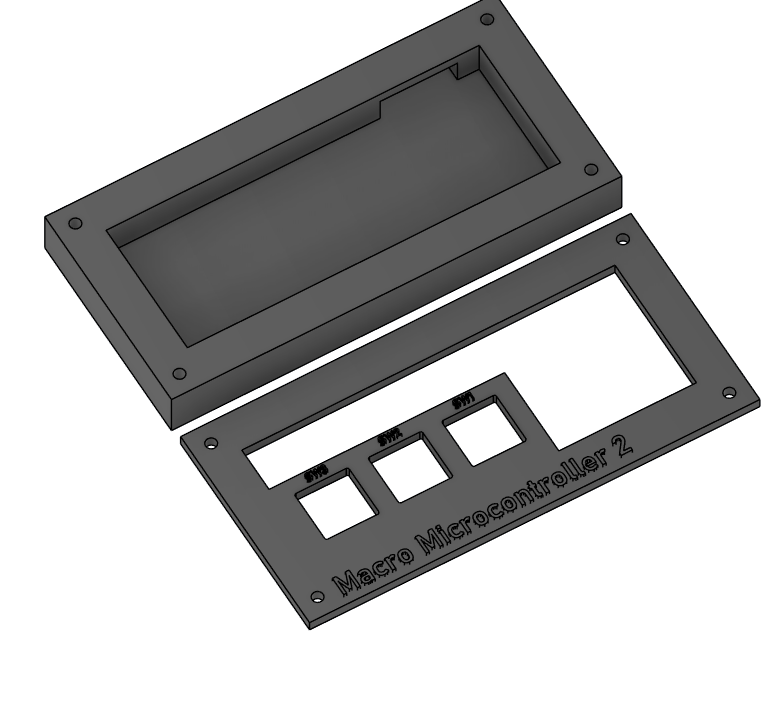
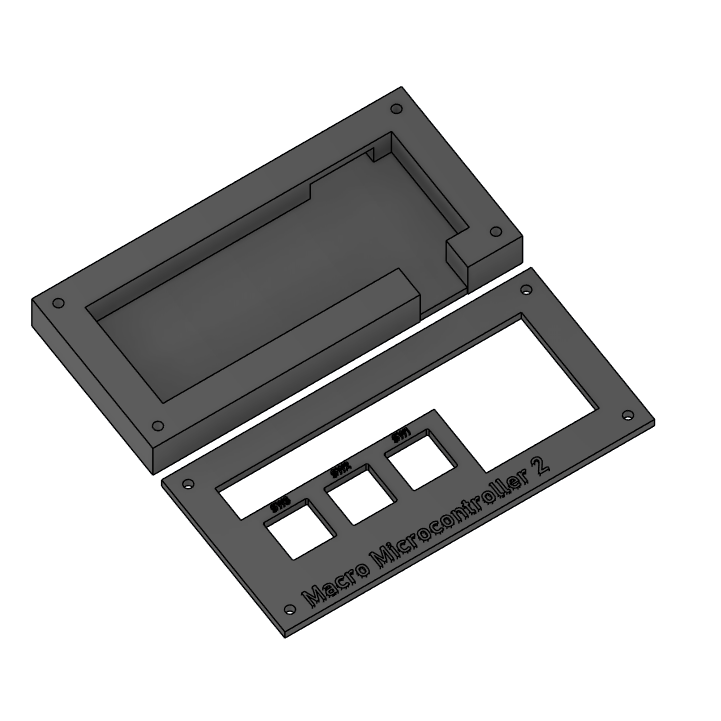
Update enclosure for barrel jack

Changed region(s): [[0.0305, 0.0, 0.9764, 0.8849], [0.2136, 0.2441, 0.4577, 0.3967], [0.4577, 0.1831, 0.5798, 0.2441]]

diff --git a/README.md b/README.md
@@ -28,7 +28,7 @@ A BASIC interpreter written in C for Macro Microcontroller, providing a simple c
 ## Schematics
 <img src="Assets/schematics.svg">
 
-View PCB file on https://kicanvas.org/?repo=https%3A%2F%2Fgithub.com%2FNicholas1023%2Fmacro-microcontroller-2%2Fblob%2Fmain%2FPCB%20Files%2Fmacro-microcontroller-2.kicad_pcb!
+View PCB file at https://kicanvas.org/?repo=https%3A%2F%2Fgithub.com%2FNicholas1023%2Fmacro-microcontroller-2%2Fblob%2Fmain%2FPCB%20Files%2Fmacro-microcontroller-2.kicad_pcb!
 
 ## Repository Structure
 ```
@@ -46,7 +46,7 @@ main
  └── schematics.pdf ← Schematics
  ```
 
-## Bill of Materials (Excluding DNP)
+## Bill of Materials (Excluding Do Not Populate)
 |Component|Ref Designator|Qty|Footprint|
 |---------|--------------|---|---------|
 |TMB12A24|BZ1|1|Buzzer_12x9.5RM7.6|